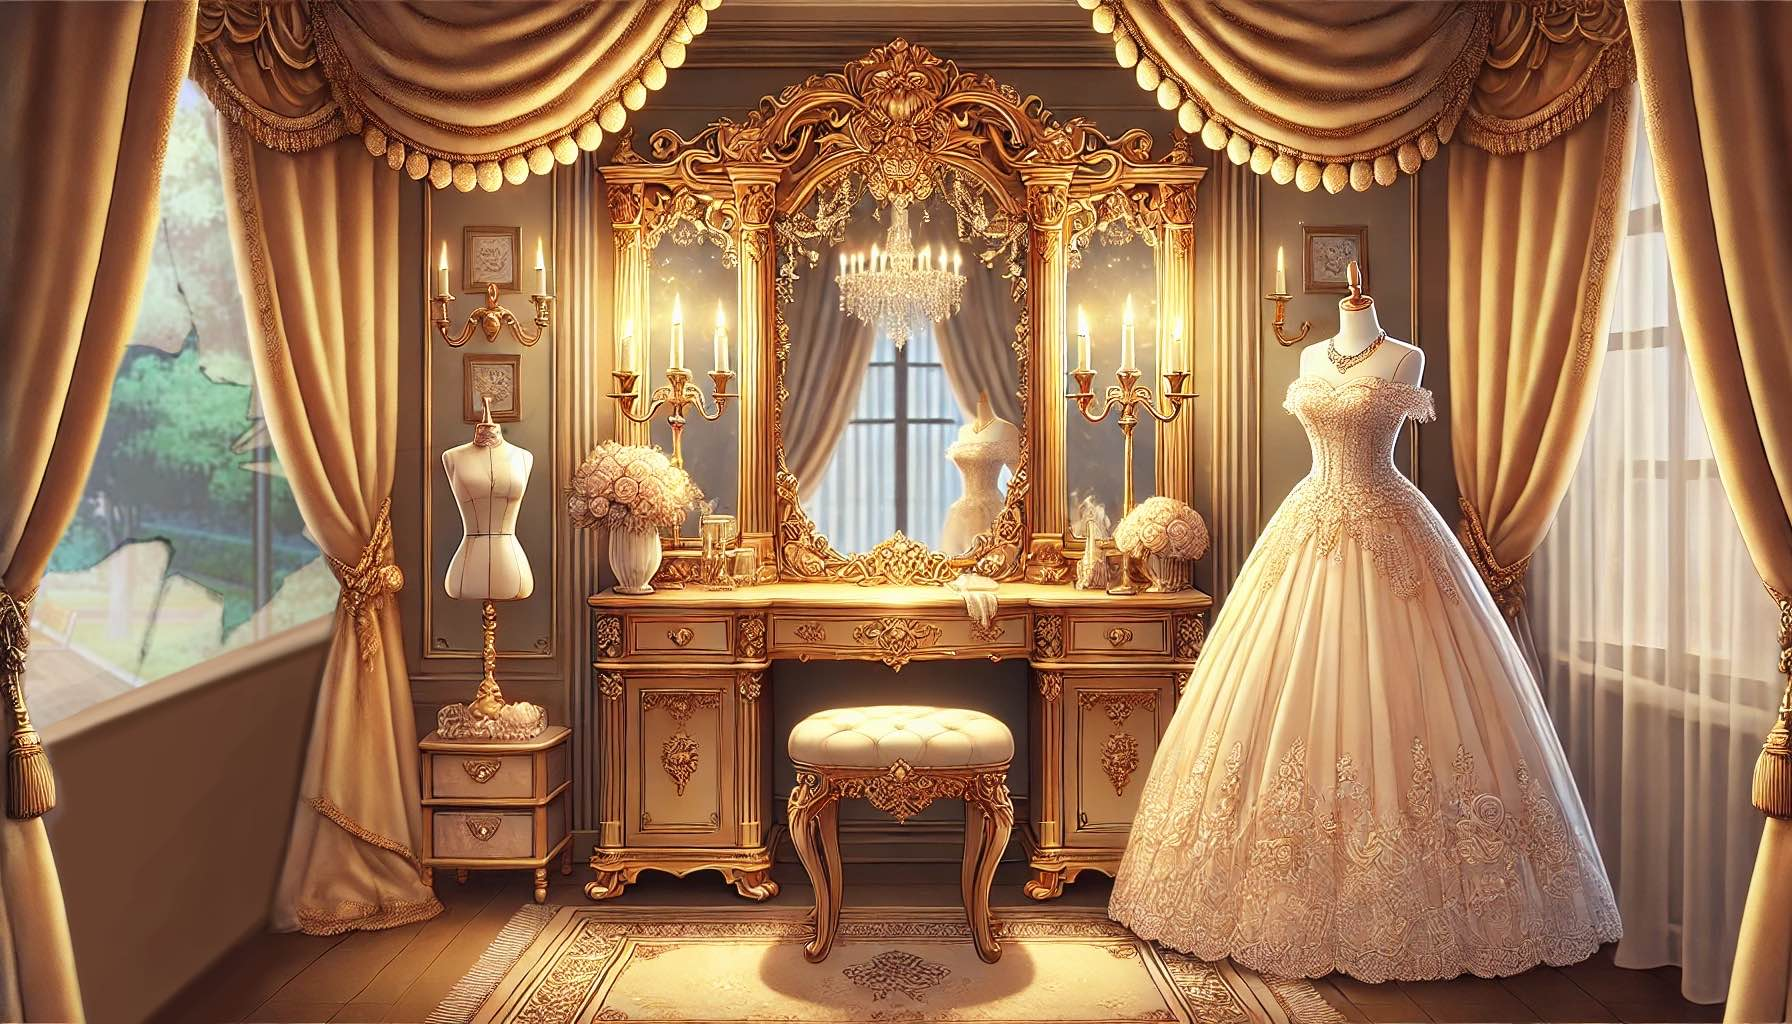
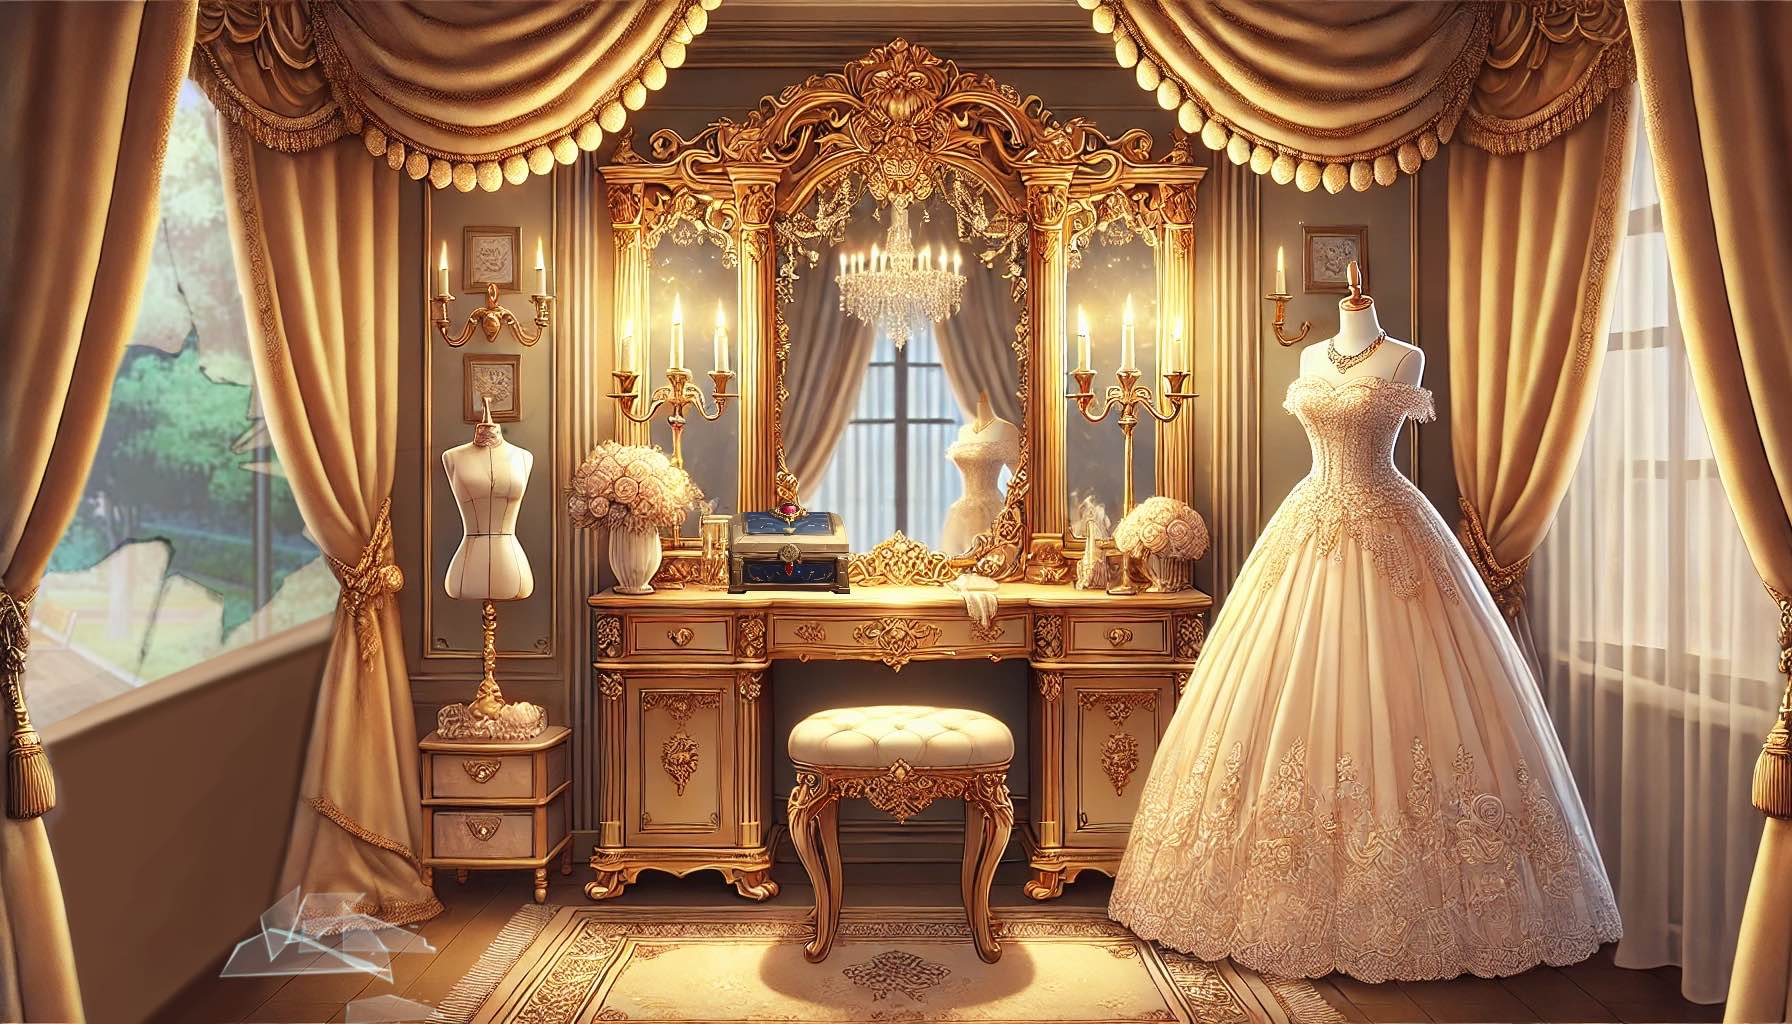
updated the glass background and added glass clue

Changed region(s): [[0.125, 0.875, 0.25, 1.0], [0.4062, 0.4688, 0.5, 0.5938]]

diff --git a/src/main/java/nz/ac/auckland/se206/controllers/CrimeController.java b/src/main/java/nz/ac/auckland/se206/controllers/CrimeController.java
@@ -4,14 +4,10 @@ import javafx.beans.binding.Bindings;
 import javafx.event.ActionEvent;
 import javafx.fxml.FXML;
 import javafx.fxml.FXMLLoader;
-import javafx.scene.Parent;
-import javafx.scene.Scene;
 import javafx.scene.control.Label;
 import javafx.scene.control.MenuButton;
-import javafx.scene.image.Image;
 import javafx.scene.image.ImageView;
 import javafx.scene.input.MouseEvent;
-import nz.ac.auckland.ClueMenu;
 import nz.ac.auckland.se206.App;
 import nz.ac.auckland.se206.GameStateContext;
 import nz.ac.auckland.se206.Navigation;
@@ -19,10 +15,8 @@ import nz.ac.auckland.se206.TimerManager;
 import javafx.scene.layout.Pane;
 import javafx.scene.media.AudioClip;
 import javafx.scene.shape.Rectangle;
-import javafx.stage.Stage;
 
 import java.io.IOException;
-import java.util.concurrent.locks.Lock;
 
 public class CrimeController {
   private static GameStateContext context = new GameStateContext();
@@ -42,6 +36,8 @@ public class CrimeController {
   private Pane clueMenu;
   @FXML
   private ImageView safeGlow;
+  @FXML
+  private ImageView glassPileGlow;
 
   @FXML
   private void initialize() {
@@ -50,12 +46,7 @@ public class CrimeController {
 
     // set hover effects invisible
     safeGlow.setVisible(false);
-
-    try {
-      handleClueMenu(clueMenu);
-    } catch (IOException e) {
-      e.printStackTrace();
-    }
+    glassPileGlow.setVisible(false);
 
     // Initialize the controller
     Navigation nav = new Navigation();
@@ -79,6 +70,8 @@ public class CrimeController {
     context.handleClueClick(event, clickedRectangle.getId());
     if (clickedRectangle.getId().equals("safe")) {
       safeGlow.setVisible(true);
+    } else if (clickedRectangle.getId().equals("glass")) {
+      glassPileGlow.setVisible(true);
     }
   }
 
@@ -88,6 +81,8 @@ public class CrimeController {
     context.handleClueClick(event, clickedRectangle.getId());
     if (clickedRectangle.getId().equals("safe")) {
       safeGlow.setVisible(false);
+    } else if (clickedRectangle.getId().equals("glass")) {
+      glassPileGlow.setVisible(false);
     }
   }
 

diff --git a/src/main/java/nz/ac/auckland/se206/controllers/BackstoryController.java b/src/main/java/nz/ac/auckland/se206/controllers/BackstoryController.java
@@ -149,6 +149,6 @@ public class BackstoryController {
   private void onStart(ActionEvent event) throws ApiProxyException, IOException {
     backgroundMusic.stop();
     buttonClickSound.play();
-    App.fadeScenes("crime");
+    App.setRoot("crime");
   }
 }
